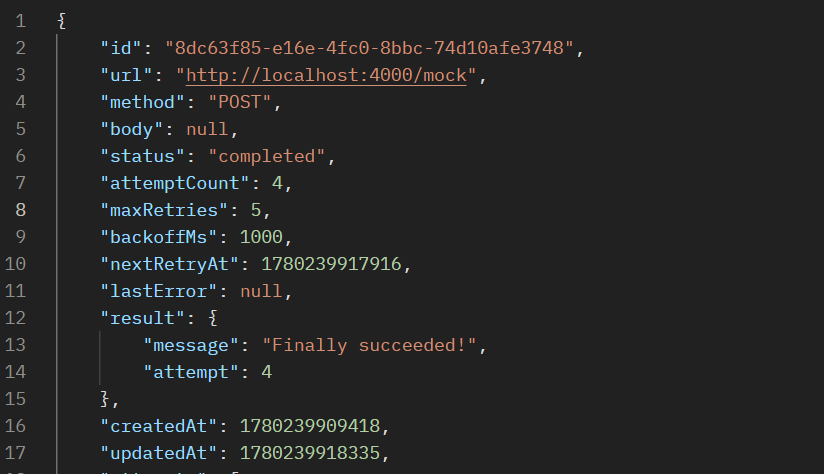
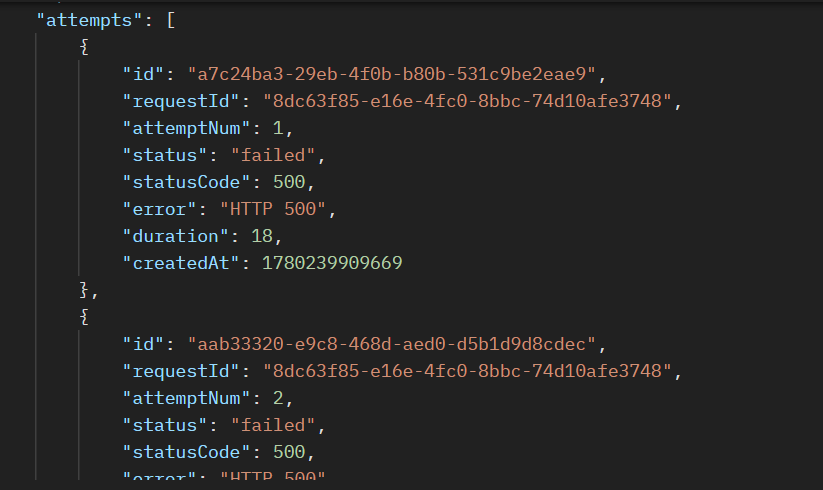
doc: update readme file with screenshots

diff --git a/README.md b/README.md
@@ -313,7 +313,7 @@ curl "http://localhost:5000/requests?status=retrying"
 
 > Screenshot of `GET /requests/:id` showing a request that failed twice then succeeded on the third attempt.
 
-![GET /requests/:id attempt history](./screenshots/Screenshot-2026-05-31.png)
+![GET /requests/:id attempt history](./screenshots/Screenshot-2026-05-31-1.png)
 ![GET /requests/:id attempt history](./screenshots/Screenshot-2026-05-31-2.png)
 ![GET /requests/:id attempt history](./screenshots/Screenshot-2026-05-31-3.png)
 